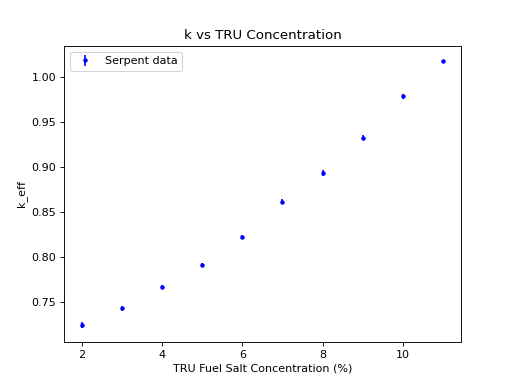
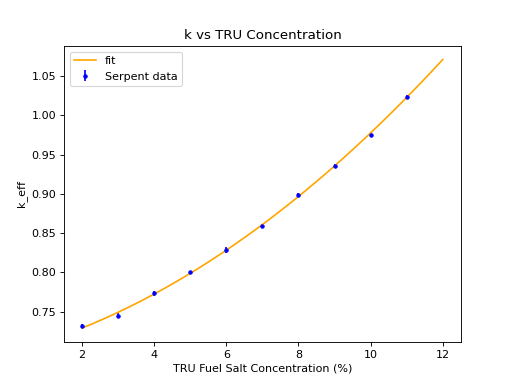
added graph

diff --git a/Fuels/TRU_Test/tru_crit.py b/Fuels/TRU_Test/tru_crit.py
@@ -23,14 +23,17 @@ for i in range(10):
         os.mkdir('dir{}'.format(i))
         os.chdir('dir{}'.format(i))
     d.fuelsalts['TRU'] = f'72%LiF + 16%BeF2 + {UF4_per}%UF4 + {TRU_per}%TRU'
-    dec = d.serpDeck(enr=enr, fuel='TRU', histories=100)
+    dec = d.serpDeck(enr=enr, fuel='TRU')
+    print('run', i+1)
     dec.full_build_run()
     #enr_list.append(enr)
     TRU_list.append(TRU_per)
     fh = open("{}_res.m".format(dec.inp_name), 'r')
     for line in fh:
         if "ANA_KEFF" in line:
+            print(float(line.split()[6]))
             k_list.append(float(line.split()[6]))
+            print(float(line.split()[7]))
             kerr_list.append(float(line.split()[7]))
     fh.close()
     os.chdir('../')
@@ -39,12 +42,12 @@ for i in range(10):
     UF4_per -= 1 
     TRU_per += 1
 TRU_list, k_list, kerr_list = np.array(TRU_list), np.array(k_list), np.array(kerr_list)
-fit = np.polyfit(np.log(TRU_list), k_list, 1)
+fit = np.polyfit(TRU_list, k_list, 2)
 x = np.arange(2, 12, 0.001)
 fig1, ax1 = plt.subplots()
 ax1.errorbar(TRU_list, k_list, yerr=kerr_list, marker='.',
              ls='', label='Serpent data', color='blue')
-ax1.plot(100. * x, fit[0] * np.log(x) + fit[1], ls='solid', marker='', label='fit', color='orange')
+ax1.plot(x, fit[0] * x**2 + fit[1] * x + fit[2], ls='solid', marker='', label='fit', color='orange')
 ax1.set(xlabel='TRU Fuel Salt Concentration (%)', ylabel='k_eff', title='k vs TRU Concentration')
 ax1.legend()
 fig1.savefig('TRU.png', transparent=False, dpi=80)
